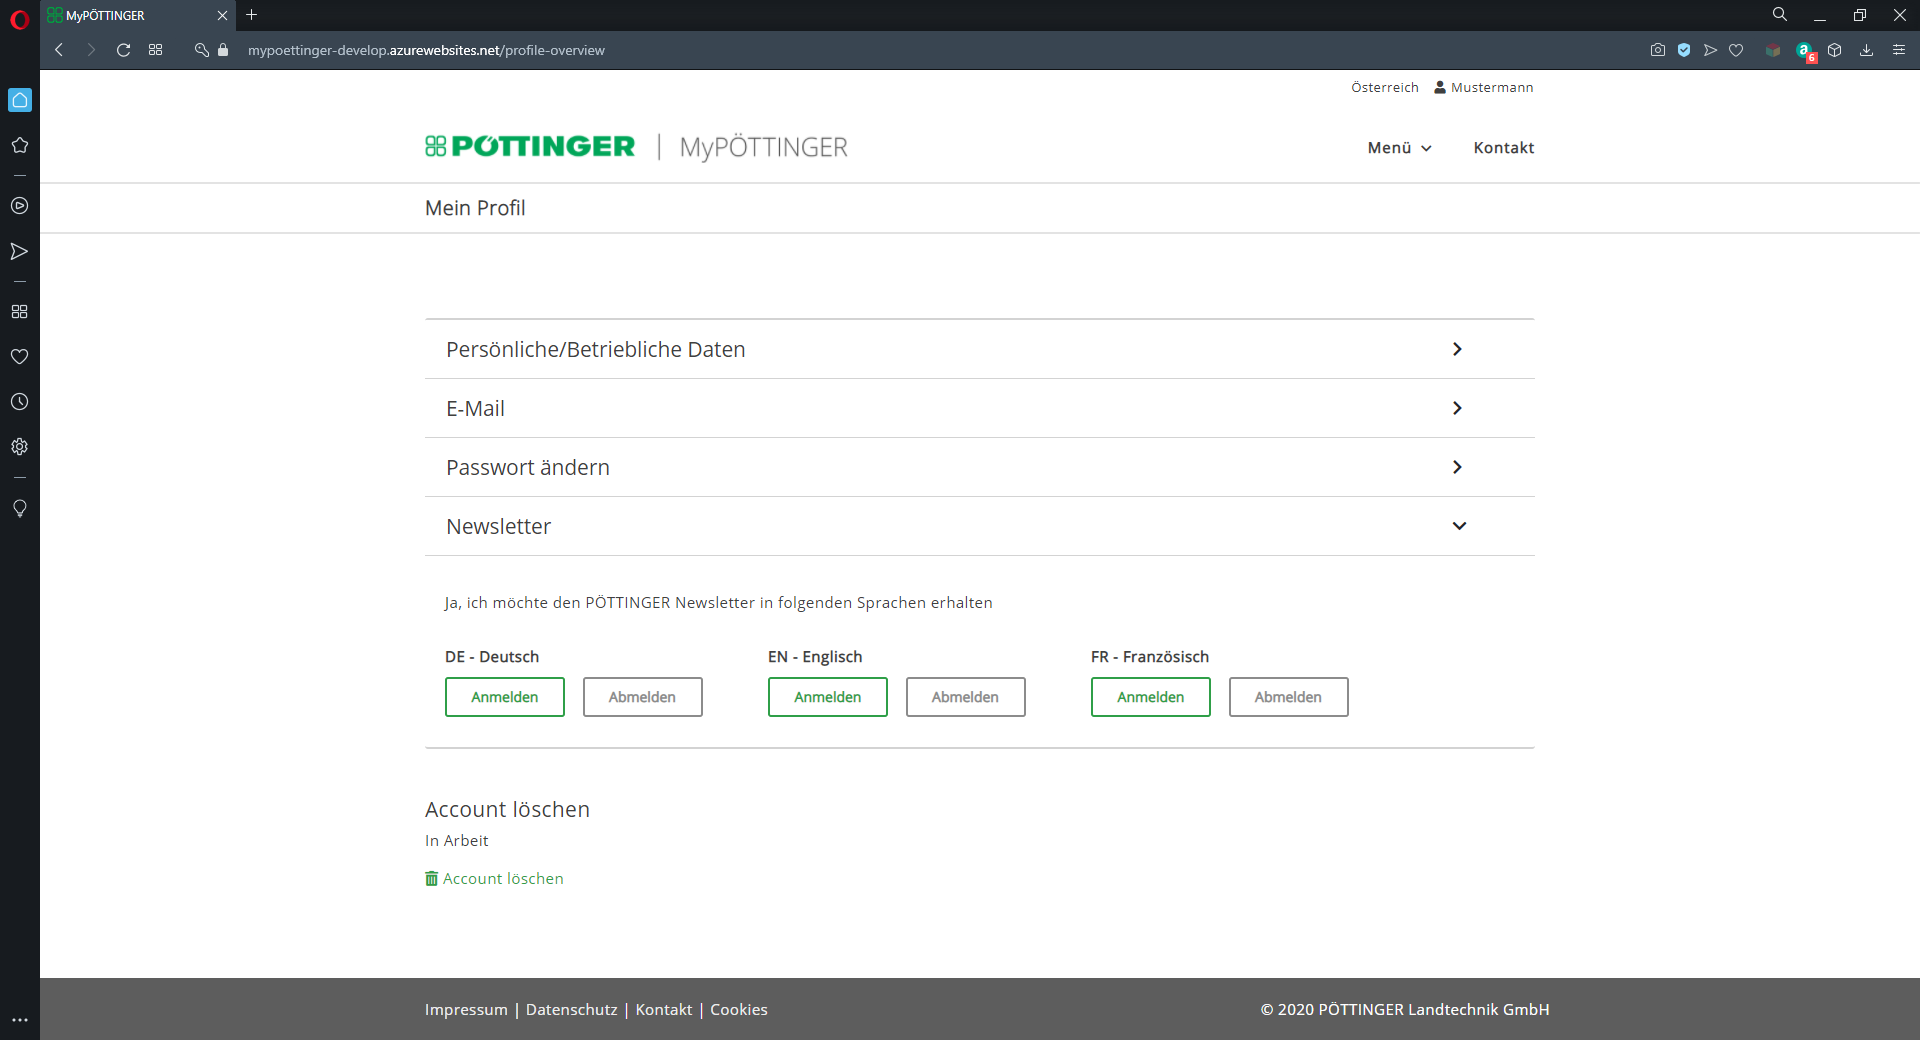
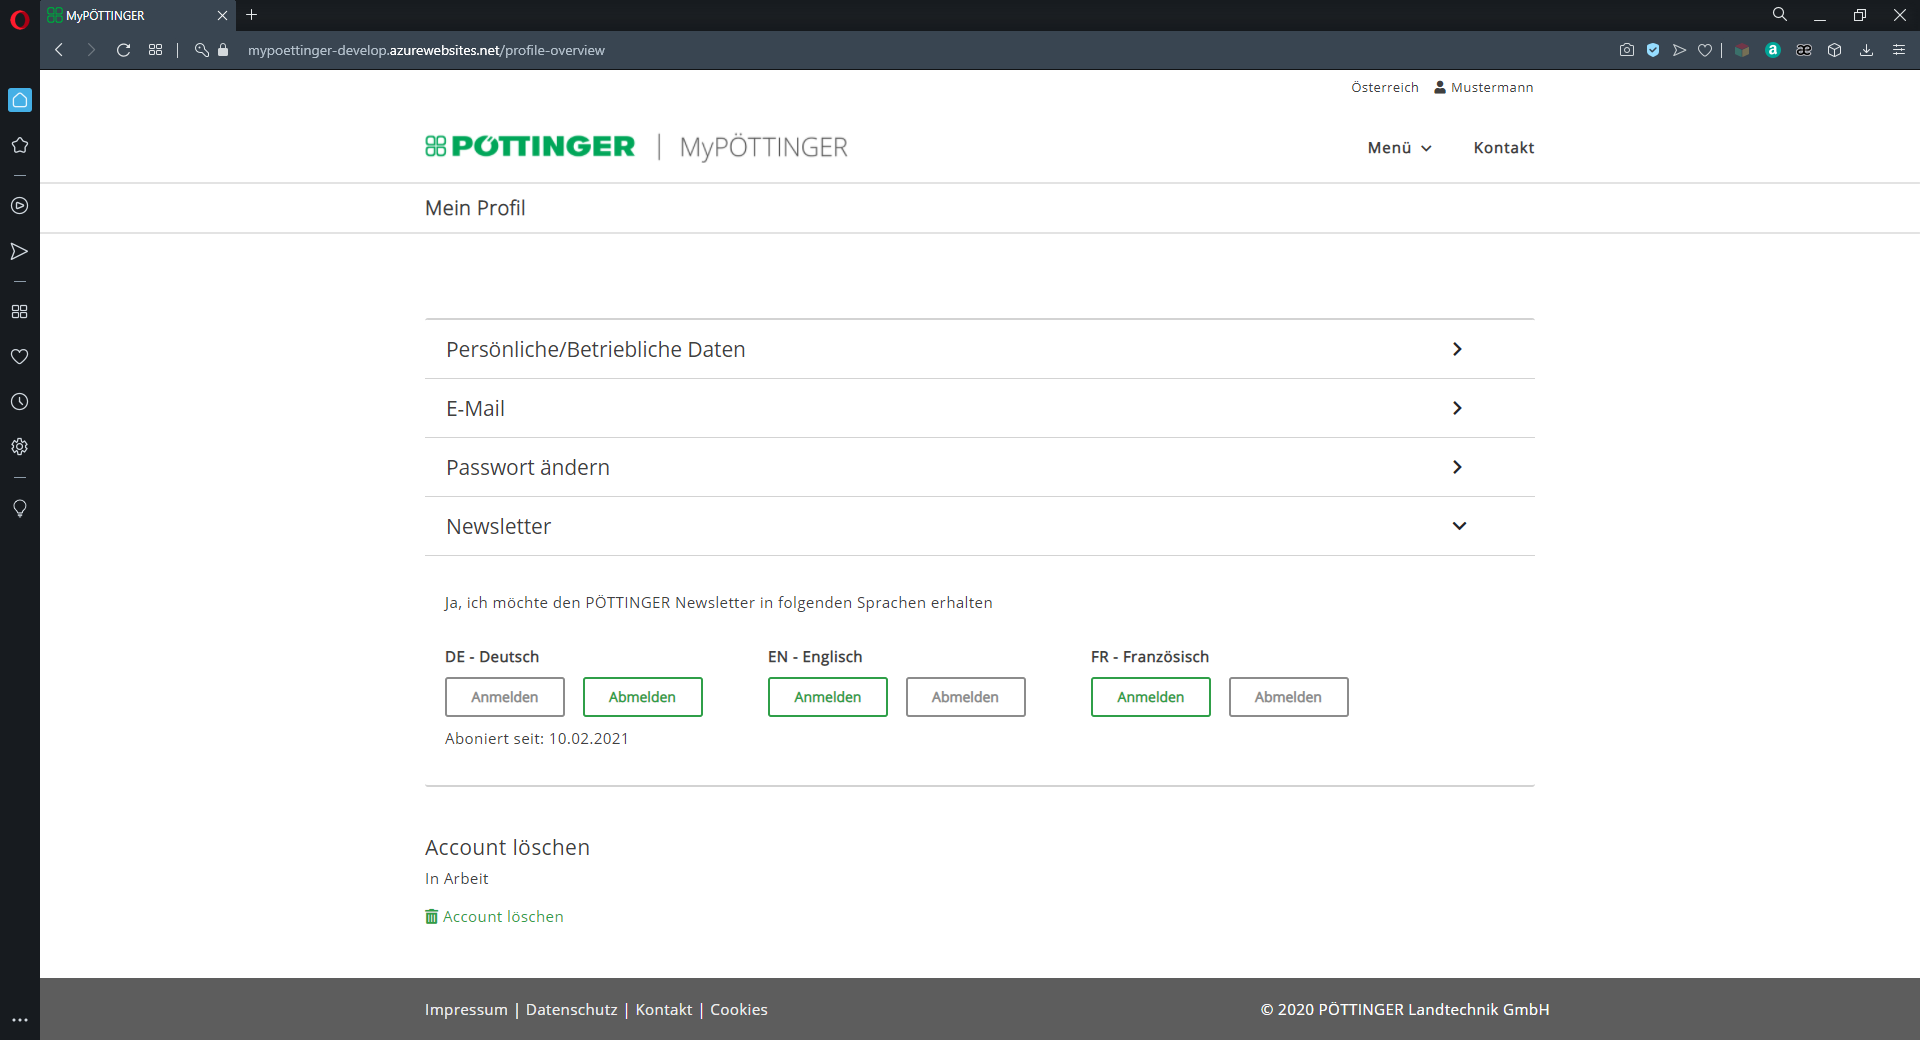
anwendersicht grob fertig

diff --git a/kapitel/anwendersicht/anwendersicht.tex b/kapitel/anwendersicht/anwendersicht.tex
@@ -120,17 +120,120 @@ Auf die Profilübersicht gelangt man, wenn man in dem Bestätigungs-Pop-Up auf "
 	\vskip0pt
 	\caption{Screenshot von der Profilübersicht} \label{fig:profil}
 \end{figure}
-In der Profilübersicht kann man all seine persönlichen Daten einsehen und diese auch bearbeiten.
+In der Profilübersicht kann man all seine persönlichen Daten einsehen und diese auch bearbeiten. Es besteht auch die Möglichkeit, die E-Mail und das Passwort zu ändern.
 
 \subsection{Persönliche/Betriebliche Daten}
 Nach der Registrierung ist es möglich, hier noch weiter persönliche und betriebliche Daten einzutragen. Falls der Benutzer ausgewählt hat, dass er auf dem eigenen oder einem anderen landwirtschaftlichen Betrieb arbeitet, erweitern sich die Daten um einige Felder für den Betrieb. Bei einem Klick auf "Persönliche/Betriebliche Daten" klappt sich ein Datenformular auf, dass wie folgt aussieht:
 \begin{figure}[H]
 	\centerline{
-		\includegraphics[width=\textwidth]{./grafiken/erm_profil_daten.png}
+		\includegraphics[width=0.8\textwidth]{./grafiken/erm_profil_daten.png}
 	}
 	\vskip0pt
 	\caption{Persönliche/Betriebliche Daten} \label{fig:profilData}
 \end{figure}
+Bei den Daten über den Betrieb wird gefragt, wie der Benutzer auf den Betrieb angestellt ist. Weiters ist auszufüllen, um welche Art von landwirtschaftlichen Betrieb es sich handelt. Die Betriebsfläche ist in Hektar und die Ackerfläche in Prozent anzugeben und für die Bewirtschaftungsform stehen Konventionell und Biologisch zur Auswahl. Danach wählt man noch die Betriebsform und die Anzahl der jeweiligen Tiere.
+\subsection{Newsletter}
+Die Firma Pöttinger bietet Newsletter in verschiedenen Sprachen für die Kunden an. Es besteht die Möglichkeit sich von diesen Newsletter jederzeit an- oder abzumelden. Das geschieht mit einem Klick auf den jeweiligen Knopf unter der gewünschten Sprache. Falls ein Newsletter abonniert ist, sieht man darunter, seit wann man diesen Newsletter erhält.
+\begin{figure}[H]
+	\centerline{
+		\includegraphics[width=0.8\textwidth]{./grafiken/erm_profil_newsletter.png}
+	}
+	\vskip0pt
+	\caption{Newsletter} \label{fig:newsletter}
+\end{figure}
 
+\section{Produktpalette}
+Mit der Produktpalette erhält man eine Vielzahl an Informationen zu den Landmaschinen der Firma Pöttinger. Um die gewünschte Maschine zu finden, gibt es verschiedene Möglichkeiten. Eine Möglichkeit ist, die Maschine in der Produktpalette zu suchen. Dafür klickt man auf "Suche in der Produktpalette" und danach öffnet sich ein Baumstruktur, in der man von oben nach unten in den Kategorien suchen kann. Am Beginn stehen Grünland und Ackerbau zur Auswahl. Öffnet man Grünland, erscheinen die Unterkategorien dieser Kategorie. Es gibt bis zu fünf Ebenen, bis man zu den einzelnen Maschinen gelangt. Diese Suche in der Baumstruktur kann man mit einer Eingabe in der Stichwortsuche über dem Baum noch einschränken. Wenn das eingegebene Stichwort in einer Ebene und darunter nicht vorkommt, sieht man diese Ebene auch nicht mehr.
+\begin{figure}[H]
+	\centerline{
+		\includegraphics[width=0.8\textwidth]{./grafiken/erm_produktpalette.png}
+	}
+	\vskip0pt
+	\caption{Produktpalette} \label{fig:produktpalette}
+\end{figure}
+\begin{figure}[H]
+	\centerline{
+		\includegraphics[width=0.8\textwidth]{./grafiken/erm_produktpalette_offen.png}
+	}
+	\vskip0pt
+	\caption{Offene Produktpalette} \label{fig:produktpaletteOffen}
+\end{figure}
+\begin{figure}[H]
+	\centerline{
+		\includegraphics[width=0.8\textwidth]{./grafiken/erm_produktpalette_offen_stichwort.PNG}
+	}
+	\vskip0pt
+	\caption{Offene Produktpalette mit Stichwortsuche} \label{fig:produktpaletteMitStichwort}
+\end{figure}
+Eine andere Möglichkeit ist noch die Suche mit einer gültigen Maschinennummer. Gibt man diese Nummer ein, gelangt man direkt zur Produktübersicht.
 
-
+\section{Produktübersicht}
+Hat man sich eine Maschine in der Produktpalette, direkt mit der Maschinennummer oder eine in Maschinenpark gespeicherte Maschine gesucht, gelangt man auf die Produktübersicht. Hier findet man jegliche nützliche Information der ausgewählten Maschine. Die angezeigten Informationen variieren je nach Maschine und Verfügbarkeit.
+\begin{figure}[H]
+	\centerline{
+		\includegraphics[width=0.8\textwidth]{./grafiken/erm_produktübersicht.png}
+	}
+	\vskip0pt
+	\caption{Produktübersicht} \label{fig:produktübersicht}
+\end{figure}
+\subsection{Highlights}
+Bei den Highlights des Produktes werden wissenswerte Informationen aufgelistet. Wird ein eines davon ausgewählt, gelangt man zu einer genaueren Beschreibung der jeweiligen Besonderheit.
+\begin{figure}[H]
+	\centerline{
+		\includegraphics[width=0.8\textwidth]{./grafiken/erm_detailansicht_highlights.PNG}
+	}
+	\vskip0pt
+	\caption{Highlights} \label{fig:highlight}
+\end{figure}
+\begin{figure}[H]
+	\centerline{
+		\includegraphics[width=0.8\textwidth]{./grafiken/erm_detailansicht_highlights_beschreibung.PNG}
+	}
+	\vskip0pt
+	\caption{Highlight-Beschreibung} \label{fig:highlightbeschreibung}
+\end{figure}
+\subsection{Ausstattung}
+Bei der Ausstattung findet man die verbauten Teile. Diese Teile sind mit Materialnummer und einer Bezeichnung aufgelistet. Darunter sieht man noch optionale Ausrüstungen, die mit dieser Maschine kompatibel sind.
+\begin{figure}[H]
+	\centerline{
+		\includegraphics[width=0.8\textwidth]{./grafiken/erm_detailansicht_ausstattung.PNG}
+	}
+	\vskip0pt
+	\caption{Ausstattung} \label{fig:ausstattung}
+\end{figure}
+\subsection{Technische Daten}
+Bei den technischen Daten findet man nützliche Informationen wie Anbau, Gewicht, Arbeitsbreite, Transportbreite, Kraftbedarf und vieles mehr.
+\begin{figure}[H]
+	\centerline{
+		\includegraphics[width=0.8\textwidth]{./grafiken/erm_detailansicht_technisch.PNG}
+	}
+	\vskip0pt
+	\caption{Ausstattung} \label{fig:ausstattung}
+\end{figure}
+\subsection{Videos, Prospekte und Betriebsanleitung}
+In diesen Kategorien findet man Videos, Prospekte und eine Betriebsanleitung für die Maschine. Diese Videos werden über YouTube abgespielt. Die Prospekte und die Betriebsanleitung sind zum Download verfügbar.
+\section{Maschinenpark}
+Im Maschinenpark ist eine Auflistung aller gespeicherten Maschinen des Benutzers. Somit hat der Nutzer einen schnellen Zugriff auf nützliche Tipps zur der gespeicherten Maschine, Bedienungsanleitungen, Ersatzteillisten, Wartungsinformationen, sowie alle technischen Details und Unterlagen.
+\begin{figure}[H]
+	\centerline{
+		\includegraphics[width=0.8\textwidth]{./grafiken/erm_maschinenpark.png}
+	}
+	\vskip0pt
+	\caption{Maschinenpark} \label{fig:maschinenpark}
+\end{figure}
+Navigiert man über den Maschinenpark zu der gespeicherten Maschine, ändert sich die Detailansicht etwas. Hinzugekommen ist ein Bild der Maschine und es bietet die Möglichkeit, diese Maschine einen individuellen Namen zu vergeben.
+\begin{figure}[H]
+	\centerline{
+		\includegraphics[width=0.8\textwidth]{./grafiken/erm_detailansicht_saved_machine.png}
+	}
+	\vskip0pt
+	\caption{Detailansicht der gespeicherten Maschine} \label{fig:maschinenpark}
+\end{figure}
+Wenn die Maschine einen individuellen Namen erhalten hat, wird dieser Name auch im eigenen Maschinenpark wie folgt angezeigt:
+\begin{figure}[H]
+	\centerline{
+		\includegraphics[width=0.8\textwidth]{./grafiken/erm_maschinenpark_benannteMaschine.png}
+	}
+	\vskip0pt
+	\caption{Benannte Maschine} \label{fig:benannteMaschine}
+\end{figure}
